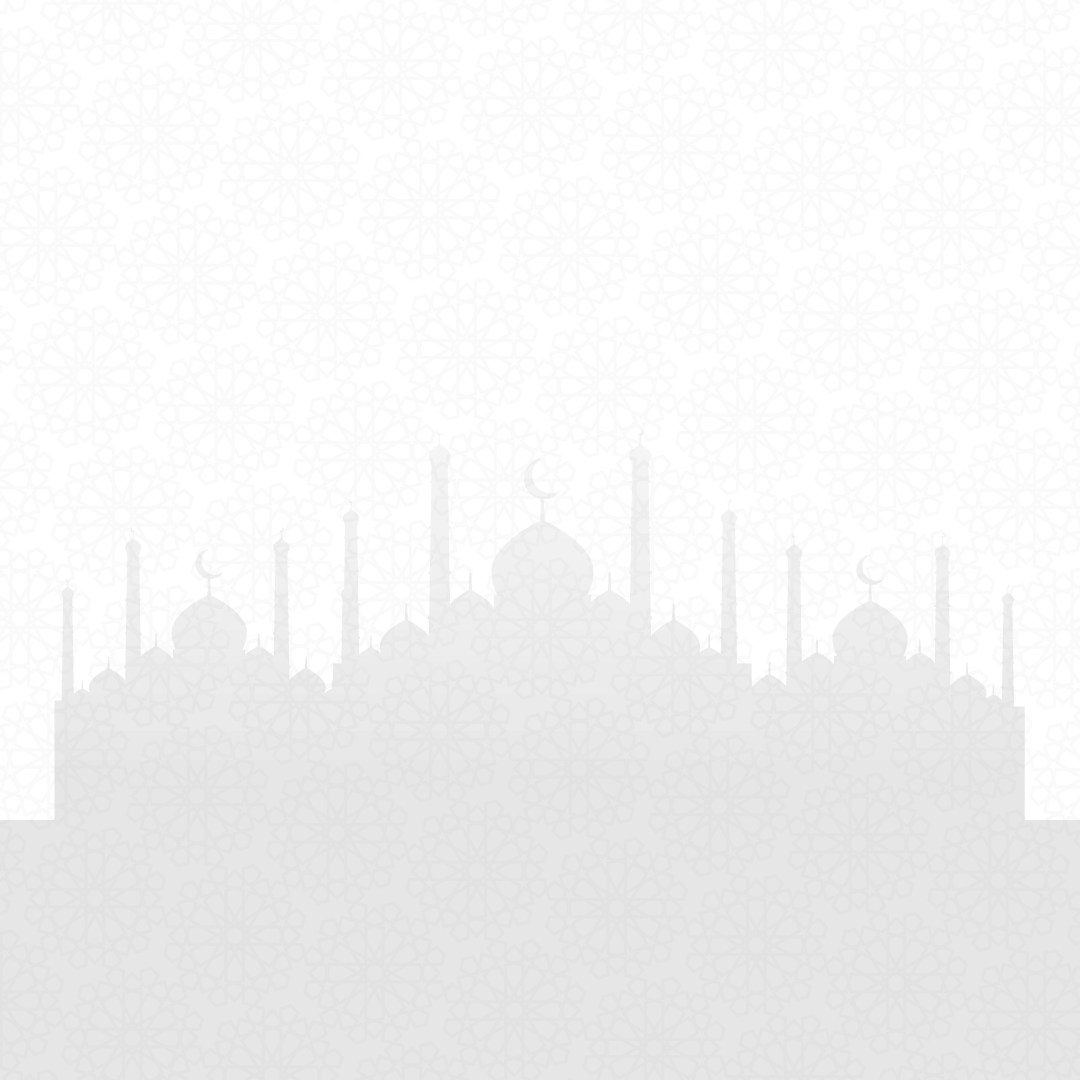
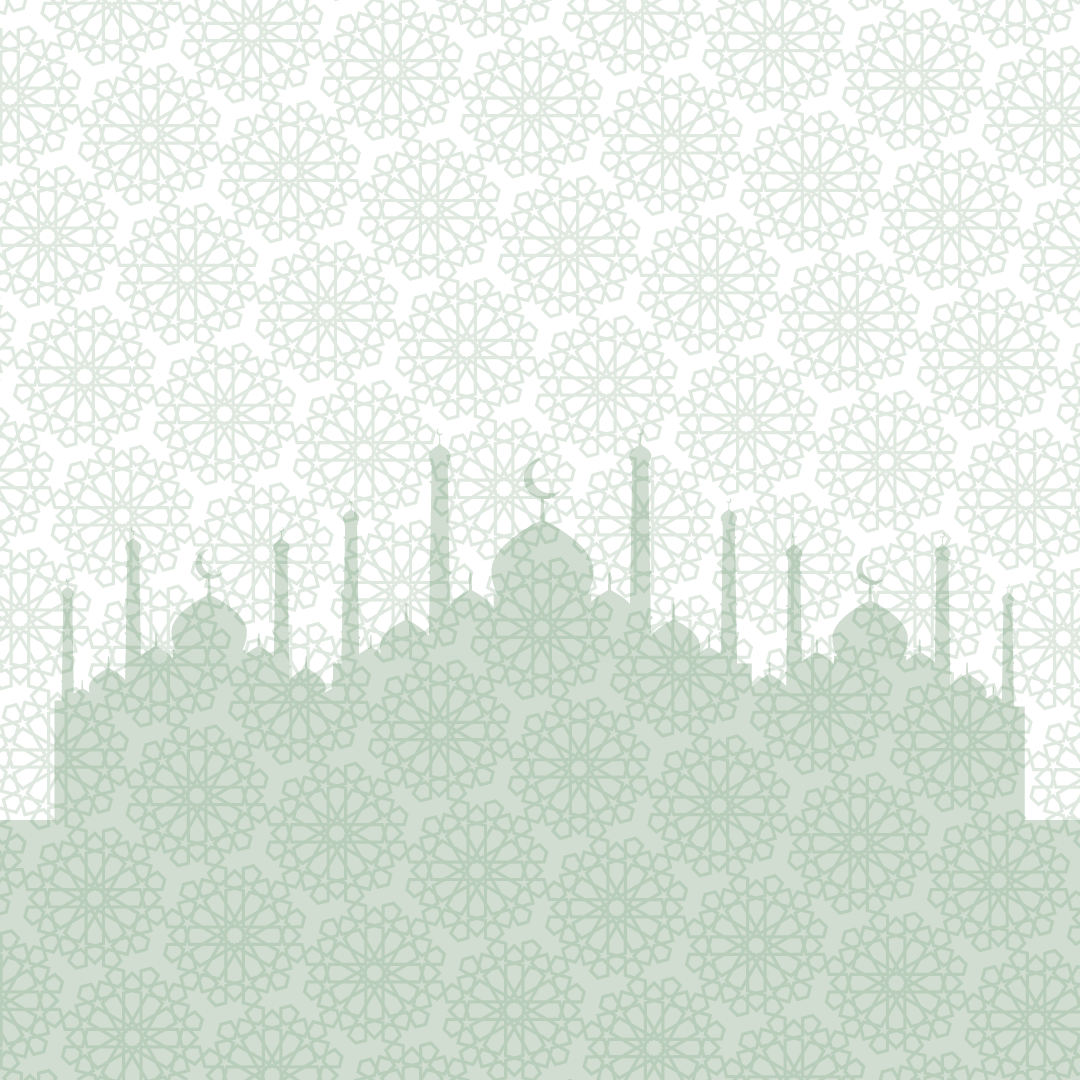
bugs fixed

diff --git a/src/Pages/Mashjid/Mashjid.js b/src/Pages/Mashjid/Mashjid.js
@@ -93,7 +93,7 @@ const Mashjid = () => {
                             </button> */}
                             <label>Adhan Times</label>
 
-                            {["Fajr", "Dhuhr", "Asr", "Maghrib", "Isha","Jumma"].map((prayer) => (
+                            {["Fajr", "Dhuhr", "Asr", "Maghrib", "Isha", "Jumma"].map((prayer) => (
                                 <div className="mashjid-adan-add" key={prayer}>
                                     <label>{prayer.toUpperCase()}: </label>
                                     <input
@@ -165,11 +165,11 @@ const Mashjid = () => {
                                                         <input
                                                             type="checkbox"
                                                             className="checkbox"
-                                                            id={index}
+                                                            id={`adhan-toggle-${index}`}
                                                             checked={selectedAdhans.includes(prayer)}
                                                             onChange={() => handleCheckboxChange(prayer)}
                                                         />
-                                                        <label className="switch" htmlFor="checkbox">
+                                                        <label className="switch" htmlFor={`adhan-toggle-${index}`}>
                                                             <span className="slider"></span>
                                                         </label>
                                                     </div>

diff --git a/src/Components/Navbar/Sidebar.js b/src/Components/Navbar/Sidebar.js
@@ -3,7 +3,7 @@ import "./Sidebar.css"
 import { Link, useNavigate } from 'react-router-dom';
 import CombinedFeedData from '../../Pages/AppData';
 import career from "../../Assets/career.png"
-import { ArrowRightLeft, BanknoteArrowUp, ChevronRight, Info, MessageCircleQuestionMark, Newspaper, ShieldAlert, X } from 'lucide-react';
+import { ArrowRightLeft, BanknoteArrowUp, ChevronRight, Info, MessageCircleQuestionMark, Newspaper, ShieldAlert, ShieldCheck, X } from 'lucide-react';
 
 const Sidebar = ({ sideactive, sideRef, handleCloseSidebar }) => {
     const navigate = useNavigate();
@@ -71,6 +71,9 @@ const Sidebar = ({ sideactive, sideRef, handleCloseSidebar }) => {
                         </li>
                         <li>
                             <Link onClick={handleProfile} to={"/return-refund"}> <BanknoteArrowUp />Return And Refund</Link>
+                        </li>
+                        <li>
+                            <Link onClick={handleProfile} to={""}> <ShieldCheck />Certificates</Link>
                         </li>
                         {/* <li>
                             <Link onClick={handleProfile} to={"/"}> <MdWorkOutline />Carrier</Link>

diff --git a/src/Components/Loading/Loading.css b/src/Components/Loading/Loading.css
@@ -27,8 +27,8 @@
   width: 10px;
   height: 10px;
   border-radius: 100%;
-  box-shadow: 0 0 10px #d8d8d8;
-  background: #d8d8d8;
+  box-shadow: 0 0 10px #597445;
+  background: #597445;
   float: left;
   margin: 5px;
   transform: scale(1.5);
@@ -65,35 +65,35 @@
 }
 @keyframes anm-BL-53-move1 {
   50% {
-    background: #d8d8d8;
+    background: #597445;
     transform: scale(0.5);
   }
 }
 
 @keyframes anm-BL-53-move2 {
   50% {
-    background: #d8d8d8;
+    background: #597445;
     transform: scale(0.5);
   }
 }
 
 @keyframes anm-BL-53-move3 {
   50% {
-    background: #d8d8d8;
+    background: #597445;
     transform: scale(0.5);
   }
 }
 
 @keyframes anm-BL-53-move4 {
   50% {
-    background: #d8d8d8;
+    background: #597445;
     transform: scale(0.5);
   }
 }
 
 @keyframes anm-BL-53-move5 {
   50% {
-    background: #d8d8d8;
+    background: #597445;
     transform: scale(0.5);
   }
 }
@@ -105,9 +105,9 @@
 .loader-quote p{
     margin: 0;
     font-size: 14px;
-    color: gray;
+    color: #597445;
     text-align: center;
-    border: 1px solid #d8d8d8;
+    border: 1px solid #597445;
     border-radius: 8px;
     padding: 8px;
 }

diff --git a/src/Components/Collection/Collection.js b/src/Components/Collection/Collection.js
@@ -11,6 +11,7 @@ import calender from "../../Assets/calender.png"
 import suggest from "../../Assets/suggest3.png"
 import CombinedFeedData from "../../Pages/AppData";
 import { LuWalletMinimal } from "react-icons/lu";
+import calculator from "../../Assets/calculator.png"
 
 
 const Collection = () => {
@@ -90,7 +91,7 @@ const Collection = () => {
                                     <h6>Zakat Calculator</h6>
                                     <p>Calculate your Zakat</p>
                                     <Link to={"/calculator"} className="donate-btn">Calculate</Link>
-                                    <img src={donate} alt="" />
+                                    <img src={calculator} alt="" />
                                 </div>
                             </div>
                             <div className="collection-right-card item4">

diff --git a/src/Components/Adhan/Adhan.js b/src/Components/Adhan/Adhan.js
@@ -232,7 +232,7 @@ const Adhan = () => {
                                             <>
                                                 {formatTo12Hour(nextPrayer.time).split(" ")[0]}
                                                 <span> {formatTo12Hour(nextPrayer.time).split(" ")[1]}</span>
-                                                <span> ({locationName?.city})</span>
+                                                <span> ({nextPrayer ? nextPrayer.name : "-"})</span>
                                             </>
                                         ) : "--:--"}
                                     </h2>

diff --git a/src/Components/Collection/Collection.css b/src/Components/Collection/Collection.css
@@ -27,12 +27,12 @@
   color: white;
 }
 
-.collection-left-top{
+.collection-left-top {
   display: flex;
   justify-content: space-between;
 }
 
-.collection-left-top-right svg{
+.collection-left-top-right svg {
   font-size: 20px;
   margin-right: 10px;
 }
@@ -77,7 +77,6 @@
   display: flex;
   gap: 10px;
   margin: 0;
-
 }
 
 .item1 {
@@ -147,10 +146,10 @@
   width: 70%;
 } */
 .collection-right-card.item3 img {
-  width: 50%;
+  width: 45%;
   position: absolute;
-  bottom: -8%;
-  right: -10%;
+  bottom: -3%;
+  right: 0%;
 }
 .collection-right-card h6 {
   color: white;

diff --git a/src/Components/Footer/Footer.css b/src/Components/Footer/Footer.css
@@ -11,7 +11,7 @@
 .Footer-image img {
   width: 100%;
   object-fit: cover;
-      opacity: 0.8;
+  opacity: 0.4;
 }
 
 .Footer-text {
@@ -19,9 +19,11 @@
   bottom: 5%;
   left: 0;
   padding: 1rem;
+  width: 100%;
+  text-align: center;
 }
 .Footer-text h2 {
-  color: #b3b3b3c8;
+  color: #597445;
   font-size: 40px;
   font-weight: 700;
   margin: 0;
@@ -29,6 +31,6 @@
   font-style: italic;
 }
 .Footer-text p {
-    /* font-weight: 200; */
+  /* font-weight: 200; */
   margin: 0;
 }

diff --git a/src/Components/Footer/Footer.js b/src/Components/Footer/Footer.js
@@ -11,8 +11,8 @@ const Footer = () => {
                 </div>
                 <div className="Footer-text">
                     <h2>#doSadaqah</h2>
-                    <p>🇮🇳 Made For India </p>
-                    <p>❤ Crafted in Delhi</p>
+                    <p>❤ Born in Delhi - Build For 🇮🇳 India</p>
+                    <p>Connecting The 👆🏻 Ummah</p>
                 </div>
             </div>
         </div>

diff --git a/src/Components/Banner/Banner.css b/src/Components/Banner/Banner.css
@@ -4,7 +4,7 @@
   justify-content: center;
   height: 36vh;
   position: relative;
-  margin: 10px;
+  margin: 10px 0;
   overflow: hidden;
 }
 
@@ -25,6 +25,7 @@
   height: 100%;
   border-radius: 20px;
   position: relative;
+  padding: 0px 10px;
 }
 .banner-image img {
   height: 35vh;
@@ -49,6 +50,7 @@
   padding: 8px;
   margin: 10px;
   font-size: 12px;
+  margin-right: 20px;
 }
 
 .slick-dots li button:before {

diff --git a/src/Pages/Search/Search.css b/src/Pages/Search/Search.css
@@ -26,6 +26,7 @@
   width: 55% !important;
   height: auto !important;
   position: unset;
+  opacity: 1 !important;
 }
 
 .search-image img {
@@ -33,6 +34,7 @@
   object-fit: cover;
   height: 100%;
   filter: brightness(1);
+  opacity: 0.3;
 }
 .search-image p {
   margin: 0;

diff --git a/src/Components/Adhan/Adhan.css b/src/Components/Adhan/Adhan.css
@@ -3,7 +3,7 @@
   gap: 1rem;
   height: 120px;
   align-items: flex-end;
-  margin-top: 2.5rem !important;
+  margin-top: 2.8rem !important;
   position: relative;
   box-shadow: 0 2px 6px rgba(0, 0, 0, 0.1);
   margin: 10px 10px 0px 10px;

diff --git a/src/Pages/Extra/Pages.css b/src/Pages/Extra/Pages.css
@@ -188,6 +188,8 @@
   background-color: white;
   border-radius: 20px;
   padding: 1rem;
+  height: 78vh;
+  overflow: auto;
 }
 .about-box a{
   color: #597445;
